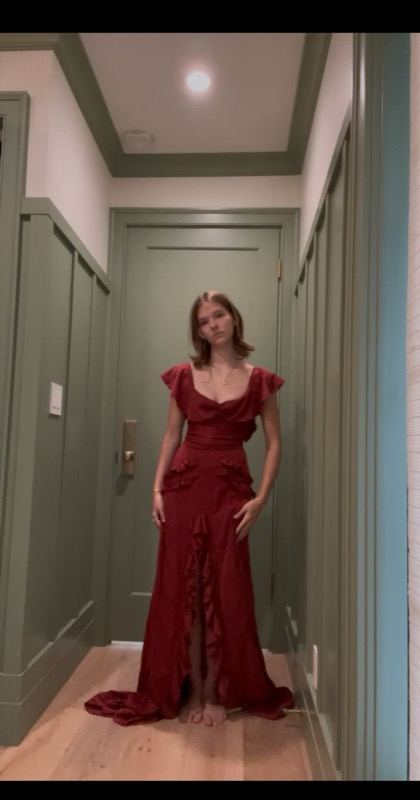
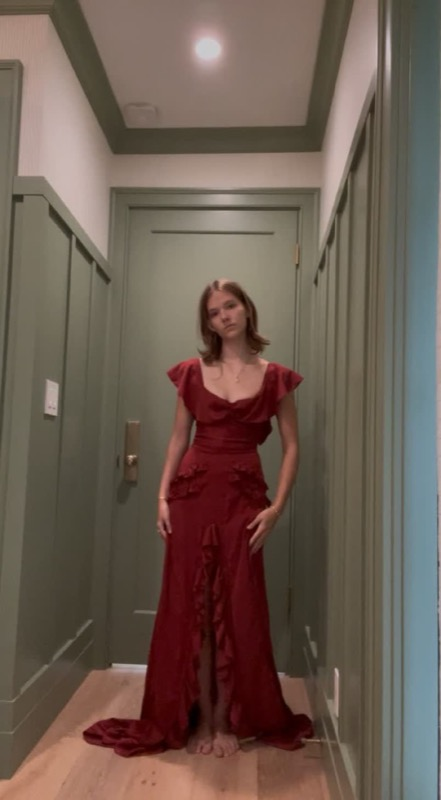
Mobile: stack timeline + fix photo distortion/overflow; remove champagne & knit coat; crop crimson; 4X; My Portfolio heading

diff --git a/styles.css b/styles.css
@@ -22,7 +22,7 @@
 }
 
 *{ box-sizing:border-box; }
-html{ scroll-behavior:smooth; }
+html{ scroll-behavior:smooth; overflow-x:hidden; max-width:100%; }
 body{
   margin:0;
   font-family:var(--sans);
@@ -395,8 +395,13 @@ button{ font-family:inherit; cursor:pointer; }
    RESPONSIVE — hero collapse
    ============================================================ */
 @media (max-width:1080px){
-  .hero .wrap{ grid-template-columns:1fr; }
+  .hero .wrap{ grid-template-columns:minmax(0,1fr); }
   .hero-deco{ display:none; }
+  .hero-left{ min-width:0; max-width:100%; }
+  .hero-left > *{ max-width:100%; }
+  .hero-name{ white-space:normal; overflow-wrap:anywhere; }
+  .hero-tag{ max-width:100%; }
+  .quality{ grid-template-columns:repeat(2,minmax(0,1fr)); }
   .timeline{ max-width:620px; margin:30px auto 0; }
 }
 @media (max-width:880px){
@@ -411,7 +416,22 @@ button{ font-family:inherit; cursor:pointer; }
   .quality{ grid-template-columns:repeat(2,1fr); gap:18px 6px; }
   .quality .q:nth-child(3)::before{ display:none; }
 }
+/* ---- phones: stack the timeline into one clean full-width column ---- */
+@media (max-width:700px){
+  .timeline::before{ display:none; }
+  .t-row,
+  .t-row.left,
+  .t-row.right{ grid-template-columns:1fr; gap:0; margin-bottom:40px; min-height:0; }
+  .t-node{ display:none; }
+  .t-row .t-text,
+  .t-row.right .t-text{ order:1; text-align:left; padding:0 0 12px; }
+  .t-row .t-photo,
+  .t-row.left .t-photo,
+  .t-row.right .t-photo{ order:2; padding:0; }
+  .t-photo img{ width:100%; height:auto; }
+  .t-num{ font-size:26px; }
+  .t-text h3{ font-size:20px; }
+}
 @media (max-width:560px){
-  .hero-name{ font-size:78px; }
-  .t-photo img{ height:120px; }
+  .hero-name{ font-size:64px; }
 }

diff --git a/index.html b/index.html
@@ -119,7 +119,7 @@
       <div class="stat"><b>12</b><span>Years Sewing</span></div>
       <div class="stat"><b>100%</b><span>Self-Taught</span></div>
       <div class="stat"><b>4.2</b><span>Weighted GPA</span></div>
-      <div class="stat"><b>4x</b><span>Award-Winning</span></div>
+      <div class="stat"><b>4X</b><span>Award-Winning</span></div>
     </div>
   </div>
 </section>
@@ -128,8 +128,7 @@
 <section class="section alt" id="portfolio">
   <div class="wrap">
     <div class="sec-head reveal">
-      <span class="sec-kicker">Portfolio</span>
-      <h2 class="sec-title">Selected Work
+      <h2 class="sec-title" style="margin-top:0"><span style="color:var(--rose)">My</span> Portfolio
         <svg class="stitch" viewBox="0 0 140 14"><line x1="4" y1="7" x2="136" y2="7" stroke="#e9b6c4" stroke-width="2.5" stroke-dasharray="8 7" stroke-linecap="round"/></svg>
       </h2>
       <p class="sec-sub">Every piece below was designed and sewn by hand. Click any photo to see how it was made.</p>

diff --git a/script.js b/script.js
@@ -29,8 +29,6 @@ const GALLERY = [
   { img:'p27', title:'Light-Up Ball Gown',      meta:'LED-lit tulle · color-changing · lace-up boots' },
   { img:'p28', title:'Floral Appliqué Gown',    meta:'Sheer tulle · 3D floral appliqué · pink sash' },
   { img:'p02', title:'Sage Satin Gown',         meta:'Lace-up bodice · floor length' },
-  { img:'p15', title:'Champagne Appliqué Gown', meta:'Floral appliqué straps · full skirt' },
-  { img:'p26', title:'Chunky Knit Coat',        meta:'Hand-knit · oversized · chunky wool' },
   { img:'p11', title:'Tailored Plaid Jacket',   meta:'Cropped · fully lined' },
   { img:'p17', title:'Knit A-Line Dress',       meta:'Sleeveless · structured skirt' },
 ];
